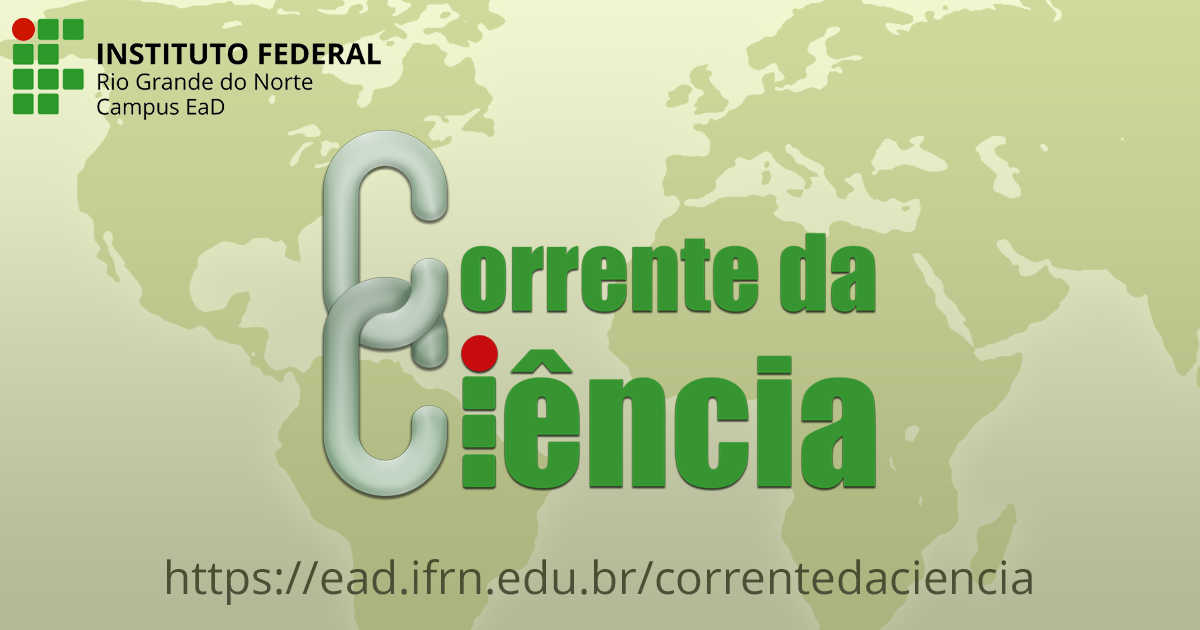
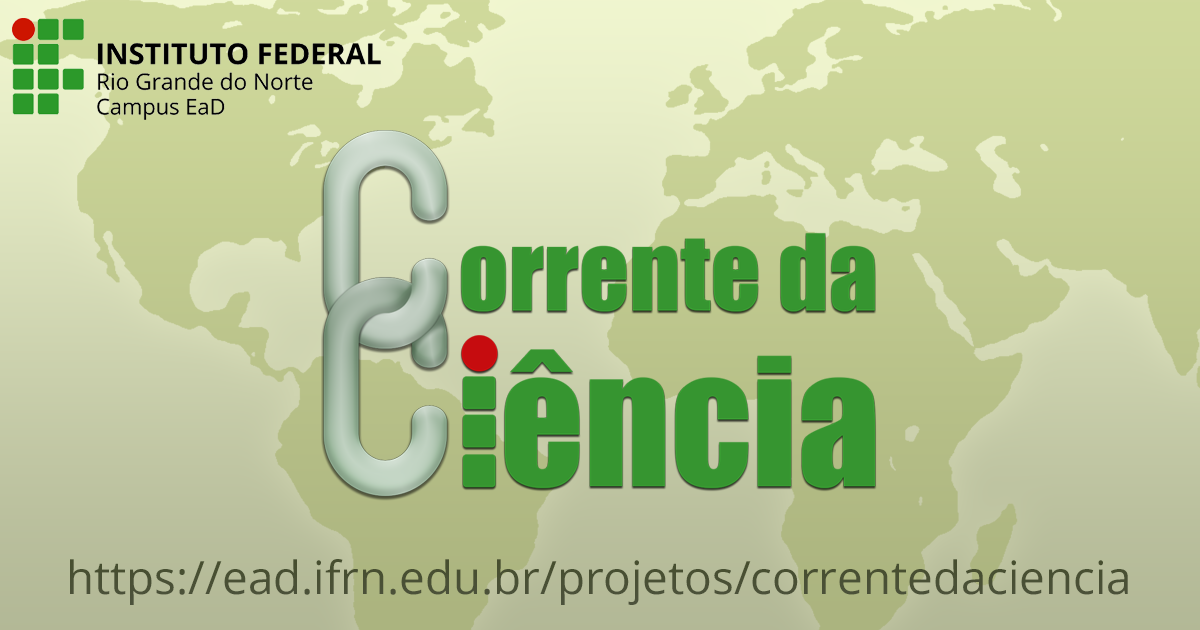
Atualizando OG image e texto da mensagem.

Changed region(s): [[0.0308, 0.8746, 0.9558, 0.9651]]

diff --git a/app/helpers/pages_helper.rb b/app/helpers/pages_helper.rb
@@ -1,23 +1,23 @@
 module PagesHelper
 
   URL = "https://ead.ifrn.edu.br/projetos/correntedaciencia".freeze
-  MENSAGEM_PADRAO = "Participe%20do%20projeto%20Corrente%20da%20Ciência%20você%20também!%20#{URL}".freeze
-  MENSAGEM_TWITTER = "Participe%20do%20projeto%20Corrente%20da%20Ciência%20você%20também!&amp;hashtags=IFRN,EAD,CorrenteDaCiencia".freeze
+  MENSAGEM_PADRAO = "Participe do Corrente da Ciência, um projeto conduzido pelo Campus EaD do IFRN, que visa compreender como e o quão rápido mensagens se propagam em redes sociais e em aplicativos de mensagens. Contribua com o projeto compartilhando a sua localização de forma anônima e segura: #{URL}".freeze
+  MENSAGEM_TWITTER = "Contribua com o projeto Corrente da Ciência do IFRN/EaD: #{URL}".freeze
 
   def facebook_share_link
     "<a href=\"http://www.facebook.com/sharer.php?u=#{URL}\" class=\"btn btn-default share-button\" target=\"_blank\"><i class=\"fa fa-facebook\"></i></a>".html_safe
   end
 
   def whatsapp_share_link
-    "<a href=\"whatsapp://send?text=\" class=\"btn btn-default share-button\" target=\"_blank\"><i class=\"fa fa-whatsapp\"></i></a>".html_safe
+    "<a href=\"whatsapp://send?text=#{MENSAGEM_PADRAO}\" class=\"btn btn-default share-button\" target=\"_blank\"><i class=\"fa fa-whatsapp\"></i></a>".html_safe
   end
 
   def twitter_share_link
-    "<a href=\"https://twitter.com/share?url=#{URL}&amp;text=#{MENSAGEM_TWITTER}\" class=\"btn btn-default share-button\" target=\"_blank\"><i class=\"fa fa-twitter\"></i></a>".html_safe
+    "<a href=\"https://twitter.com/share?text=#{MENSAGEM_TWITTER}\" class=\"btn btn-default share-button\" target=\"_blank\"><i class=\"fa fa-twitter\"></i></a>".html_safe
   end
 
   def telegram_share_link
-    "<a href=\"https://telegram.me/share/url?url=#{URL}&text=#{MENSAGEM_PADRAO}\" class=\"btn btn-default share-button\" target=\"_blank\"><i class=\"fa fa-telegram\"></i></a>".html_safe
+    "<a href=\"https://telegram.me/share/url?text=#{MENSAGEM_PADRAO}\" class=\"btn btn-default share-button\" target=\"_blank\"><i class=\"fa fa-telegram\"></i></a>".html_safe
   end
 
 end
